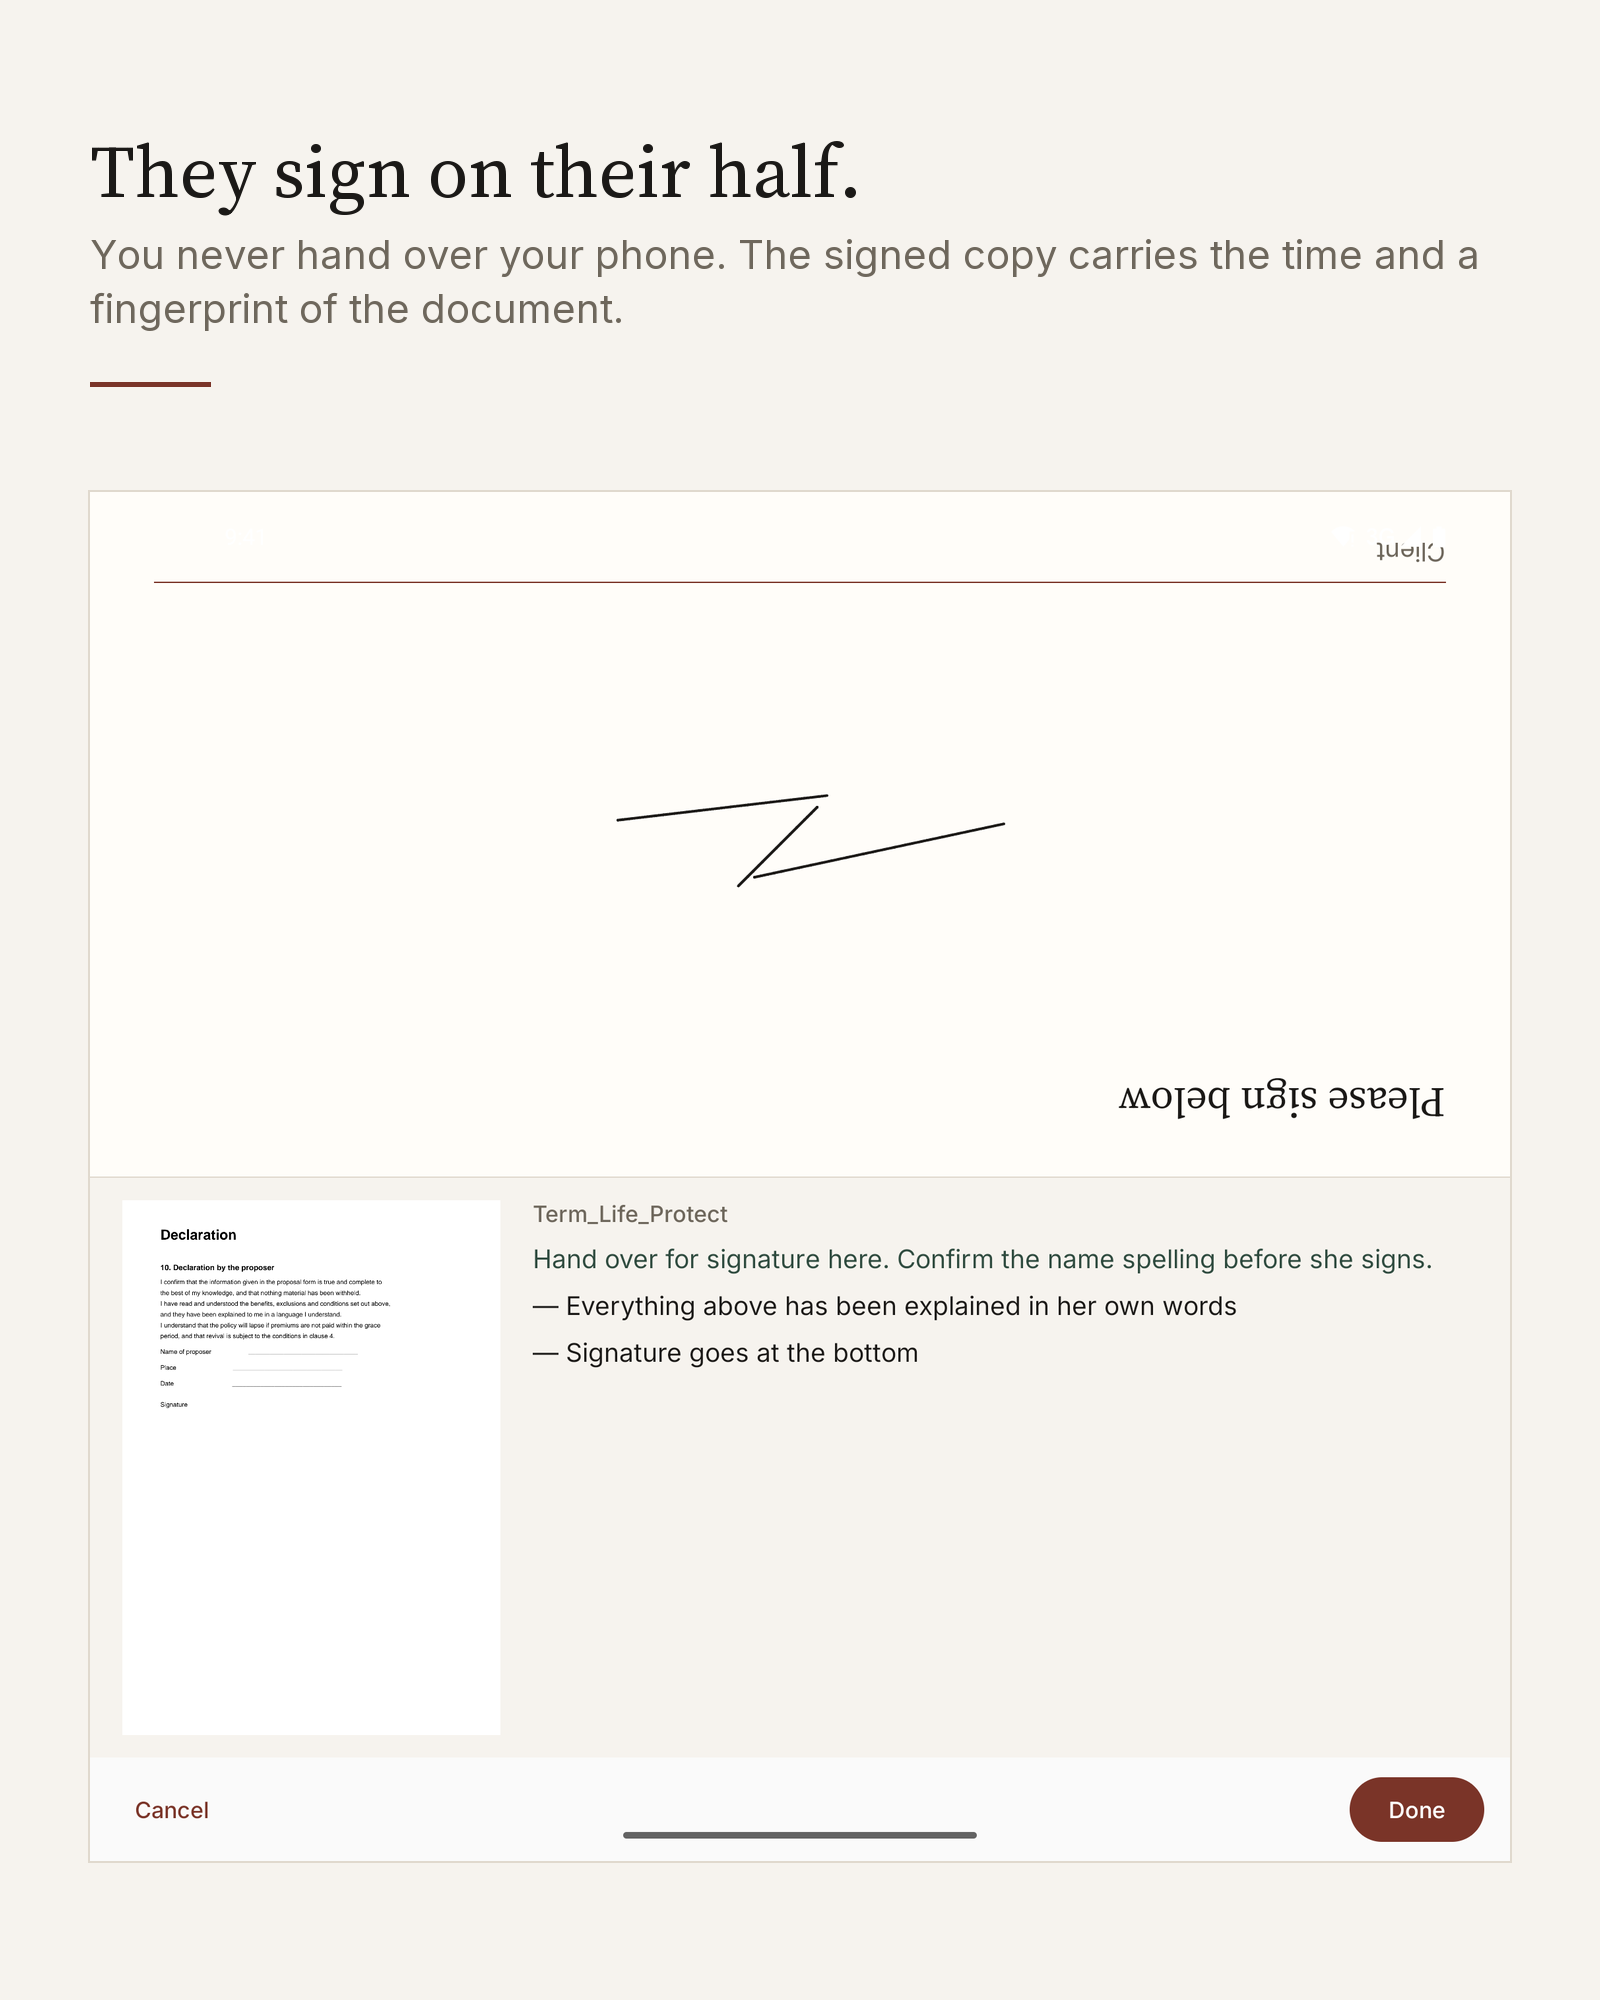
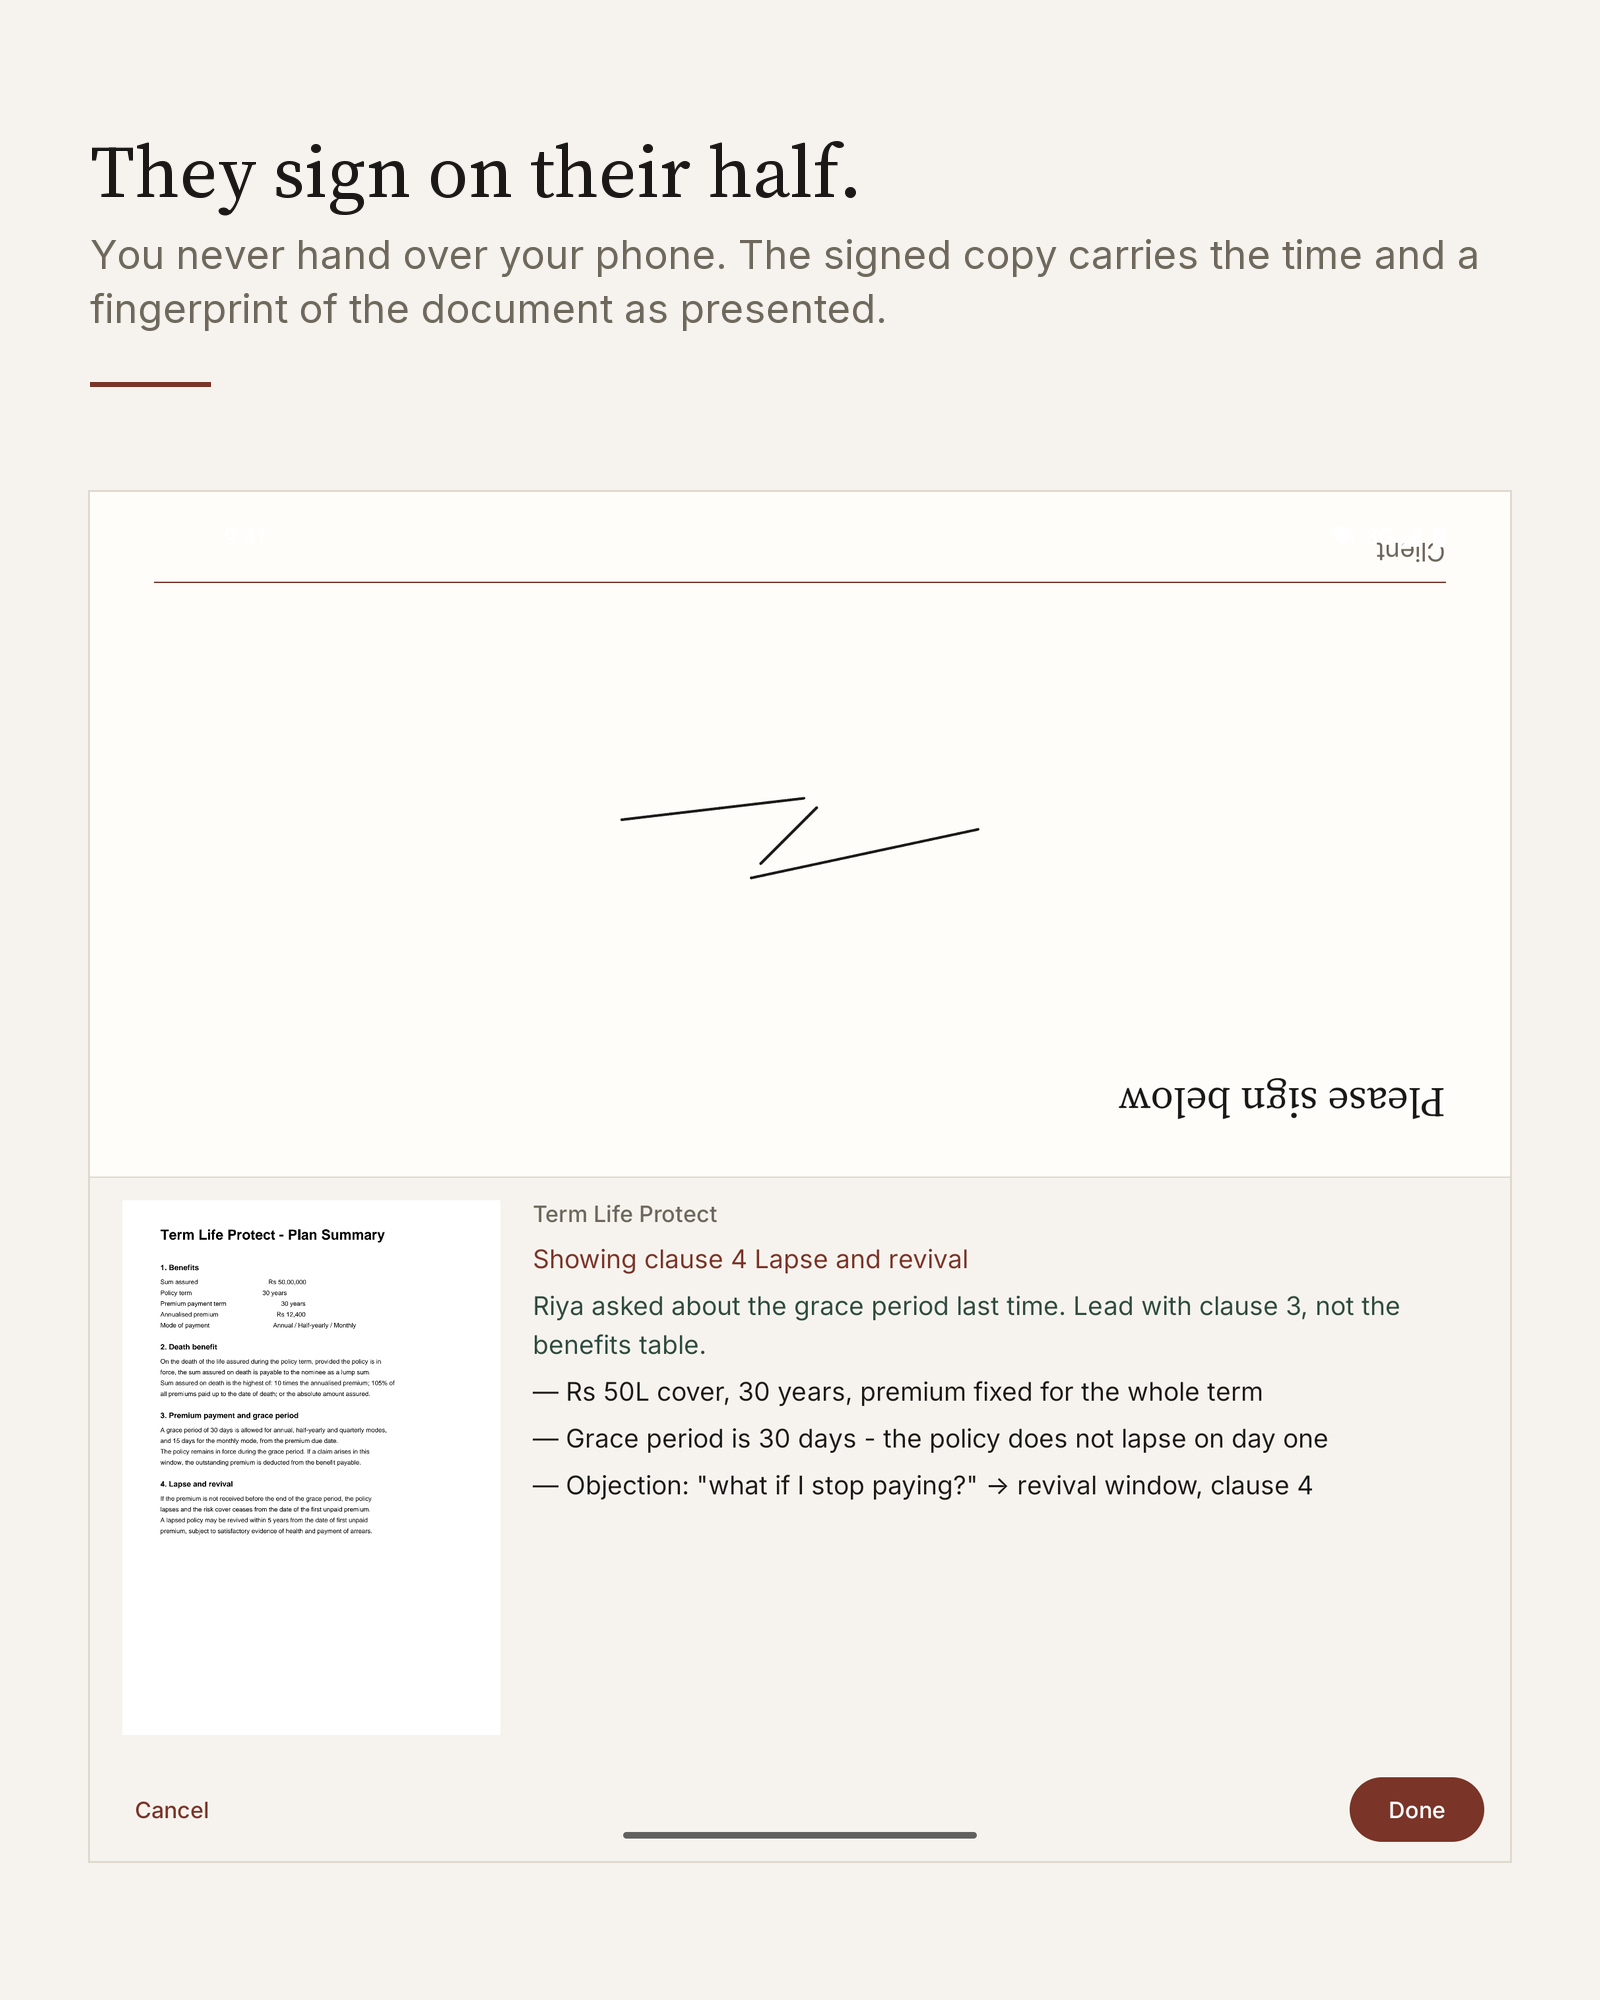
Remember the client's language, and reshoot the store assets
Composing the hero screenshot caught the bug: it claimed the clause was
in Hindi and showed English, because clientLanguage lived only in memory
and a reinstall reset it. An agent sets Hindi once and expects it to
stay set; losing it on relaunch means finding out mid-meeting that the
client's half is in English, which is exactly when it matters most. It
now persists, and the translator re-arms before the first clause is
shown so a client never briefly sees the wrong language.

Store assets reshot against the finished product. The hero is no longer
"one device, two sides of the table" — it is "they read it in their own
language", because that is now the strongest true thing the app does.
The spotlight screenshot is gone with the feature.

Verified: Hindi survives a restart, and the agent's half still reads
"Showing clause 2 Death benefit" in English.

Changed region(s): [[0.3438, 0.589, 0.875, 0.744], [0.0938, 0.589, 0.25, 0.775]]

diff --git a/app/src/main/java/com/twofold/feature/present/PresentState.kt b/app/src/main/java/com/twofold/feature/present/PresentState.kt
@@ -51,6 +51,16 @@ class PresentState(
     private val ocrExtractor = OcrTextExtractor()
     private val translator = ClauseTranslator()
 
+    /**
+     * The client's language survives a restart.
+     *
+     * An agent sets Hindi once and expects it to stay set. Losing it on relaunch means discovering
+     * mid-meeting that the client's half is in English, which is the moment it matters most. The
+     * language pack itself is already cached by ML Kit, so restoring is instant after the first
+     * download.
+     */
+    private val prefs = context.getSharedPreferences("twofold.present", Context.MODE_PRIVATE)
+
     private var source: PdfSource? = null
     private var store: PageStore? = null
 
@@ -77,7 +87,10 @@ class PresentState(
         private set
 
     /** The language the client reads. The agent's half never changes. */
-    var clientLanguage by mutableStateOf(ClientLanguage.ORIGINAL)
+    var clientLanguage by mutableStateOf(
+        runCatching { ClientLanguage.valueOf(prefs.getString(KEY_LANGUAGE, null) ?: "ORIGINAL") }
+            .getOrDefault(ClientLanguage.ORIGINAL)
+    )
         private set
 
     var modelState by mutableStateOf(ModelState.NOT_NEEDED)
@@ -91,6 +104,7 @@ class PresentState(
      */
     suspend fun setClientLanguage(language: ClientLanguage) {
         clientLanguage = language
+        prefs.edit().putString(KEY_LANGUAGE, language.name).apply()
         modelState = if (language == ClientLanguage.ORIGINAL) ModelState.NOT_NEEDED else ModelState.DOWNLOADING
         modelState = translator.prepare(language)
         refreshClientClause()
@@ -216,6 +230,12 @@ class PresentState(
         hasNoText = !textExtractor.hasUsableText(pages)
         clauses = if (hasNoText) emptyList() else ClauseSegmenter.segmentAll(pages)
         clauseIndex = 0
+
+        // Re-arm the translator for the remembered language before the first clause is shown, so a
+        // client never briefly sees English on a device set to Hindi.
+        if (clientLanguage != ClientLanguage.ORIGINAL && modelState != ModelState.READY) {
+            modelState = translator.prepare(clientLanguage)
+        }
         refreshClientClause()
 
         isLoading = false
@@ -435,6 +455,7 @@ class PresentState(
         const val RENDER_WIDTH_PX = 1400
 
         const val RADIX_36 = 36
+        const val KEY_LANGUAGE = "client_language"
         const val MIN_LEGIBILITY = 1f
         const val MAX_LEGIBILITY = 2f
     }

diff --git a/docs/store/compose_store.py b/docs/store/compose_store.py
@@ -84,7 +84,7 @@ def promo(dest):
     canvas = Image.new("RGB", (pw, ph), PAPER)
     d = ImageDraw.Draw(canvas)
 
-    shot = Image.open(SP / "shot_twofold.png").convert("RGB")
+    shot = Image.open(SP / "shot_hindi.png").convert("RGB")
     scale = (ph - 150) / shot.height
     shot = shot.resize((int(shot.width * scale), int(shot.height * scale)), Image.LANCZOS)
     sx = pw - shot.width - 90
@@ -97,13 +97,13 @@ def promo(dest):
     max_w = sx - 200
 
     y = 300
-    for line in wrap(d, "One device. Two sides of the table.", head_f, max_w):
+    for line in wrap(d, "They read what they sign.", head_f, max_w):
         d.text((100, y), line, font=head_f, fill=INK)
         y += 112
     y += 24
     d.line([(100, y), (220, y)], fill=SEAL, width=5)
     y += 52
-    for line in wrap(d, "They read the document. You keep your notes.", sub_f, max_w):
+    for line in wrap(d, "The clause in their language, while you work from the original.", sub_f, max_w):
         d.text((100, y), line, font=sub_f, fill=INK_MUTED)
         y += 52
 
@@ -130,21 +130,21 @@ def icon(dest, size=512):
 
 
 print("screenshots:")
+screenshot("shot_hindi.png",
+           "They read it in their own language.",
+           "The clause in Hindi on their half, the English original on yours — one document, at the same moment. On-device, so the policy never leaves your phone.",
+           "01-own-language.png")
 screenshot("shot_twofold.png",
            "One device. Two sides of the table.",
-           "They read the document. You keep your notes, your talk track, and the controls.",
-           "01-two-sided.png")
+           "They read the clause, set large enough to read across a table. You keep the whole page, your notes and your talk track.",
+           "02-two-sided.png")
 screenshot("shot_prepare.png",
-           "Prepare before you sit down.",
-           "Write a private note and a talk track for each page. Held in your hand, it is yours alone.",
-           "02-prepare.png")
-screenshot("shot_spotlight.png",
-           "Point at a clause.",
-           "Drag across your copy and it lights up on theirs. No reaching across the table.",
-           "03-spotlight.png")
+           "Set it up before you sit down.",
+           "Choose what your client reads, write a private note, and line up what you want to say. Held in your hand, it is yours alone.",
+           "03-prepare.png")
 screenshot("shot_signing.png",
            "They sign on their half.",
-           "You never hand over your phone. The signed copy carries the time and a fingerprint of the document.",
+           "You never hand over your phone. The signed copy carries the time and a fingerprint of the document as presented.",
            "04-signature.png")
 print("promo:")
 promo("promo-16x9.png")
